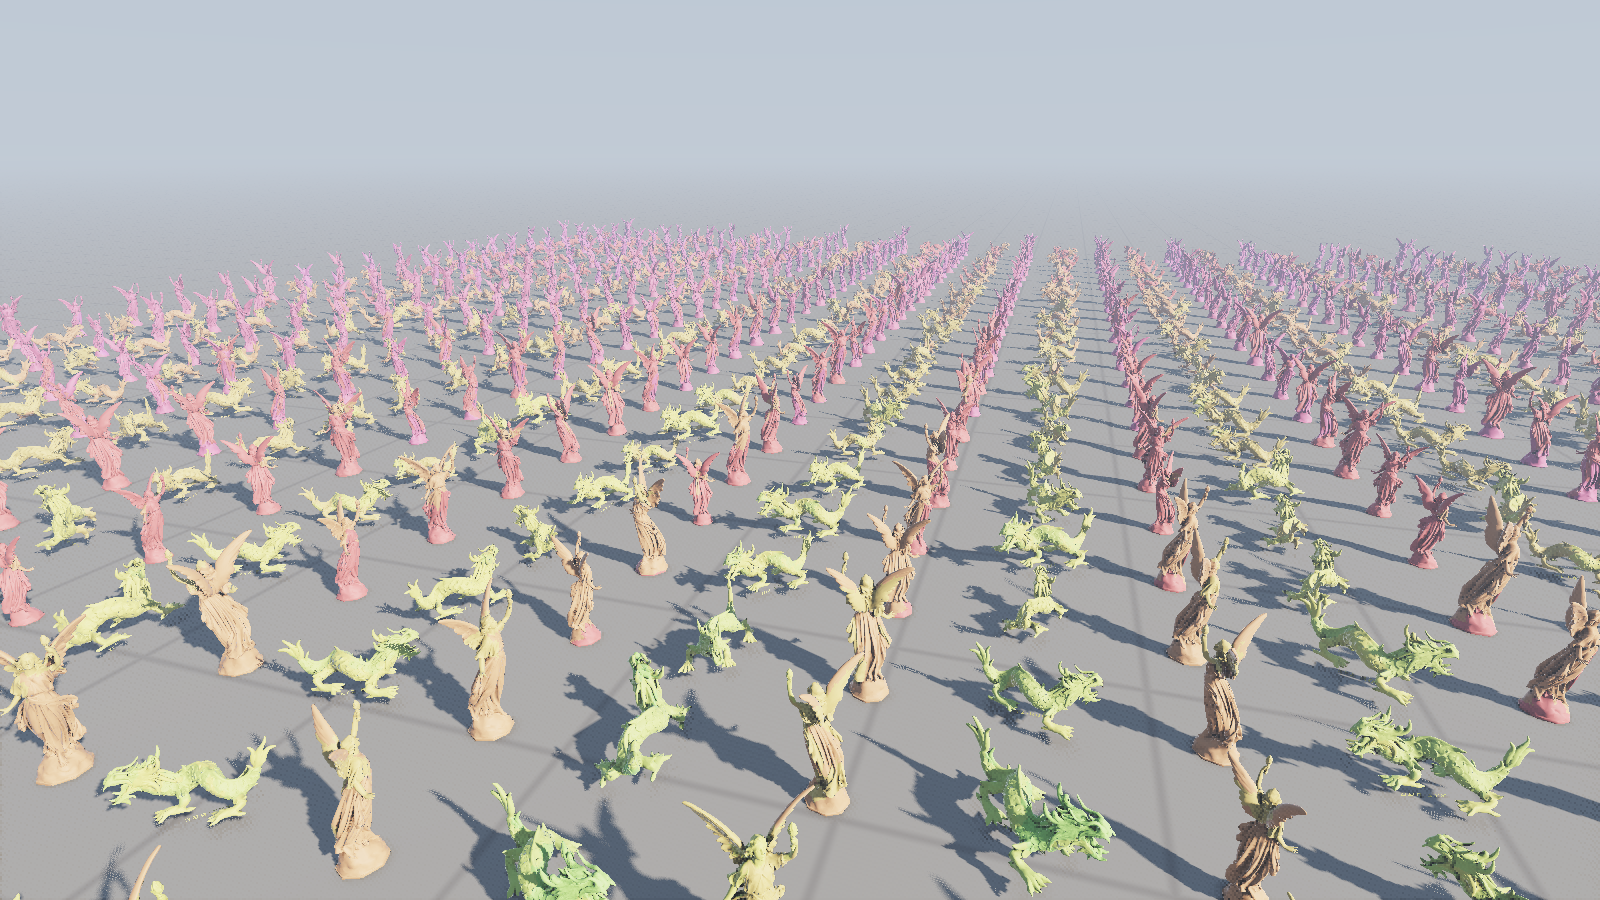
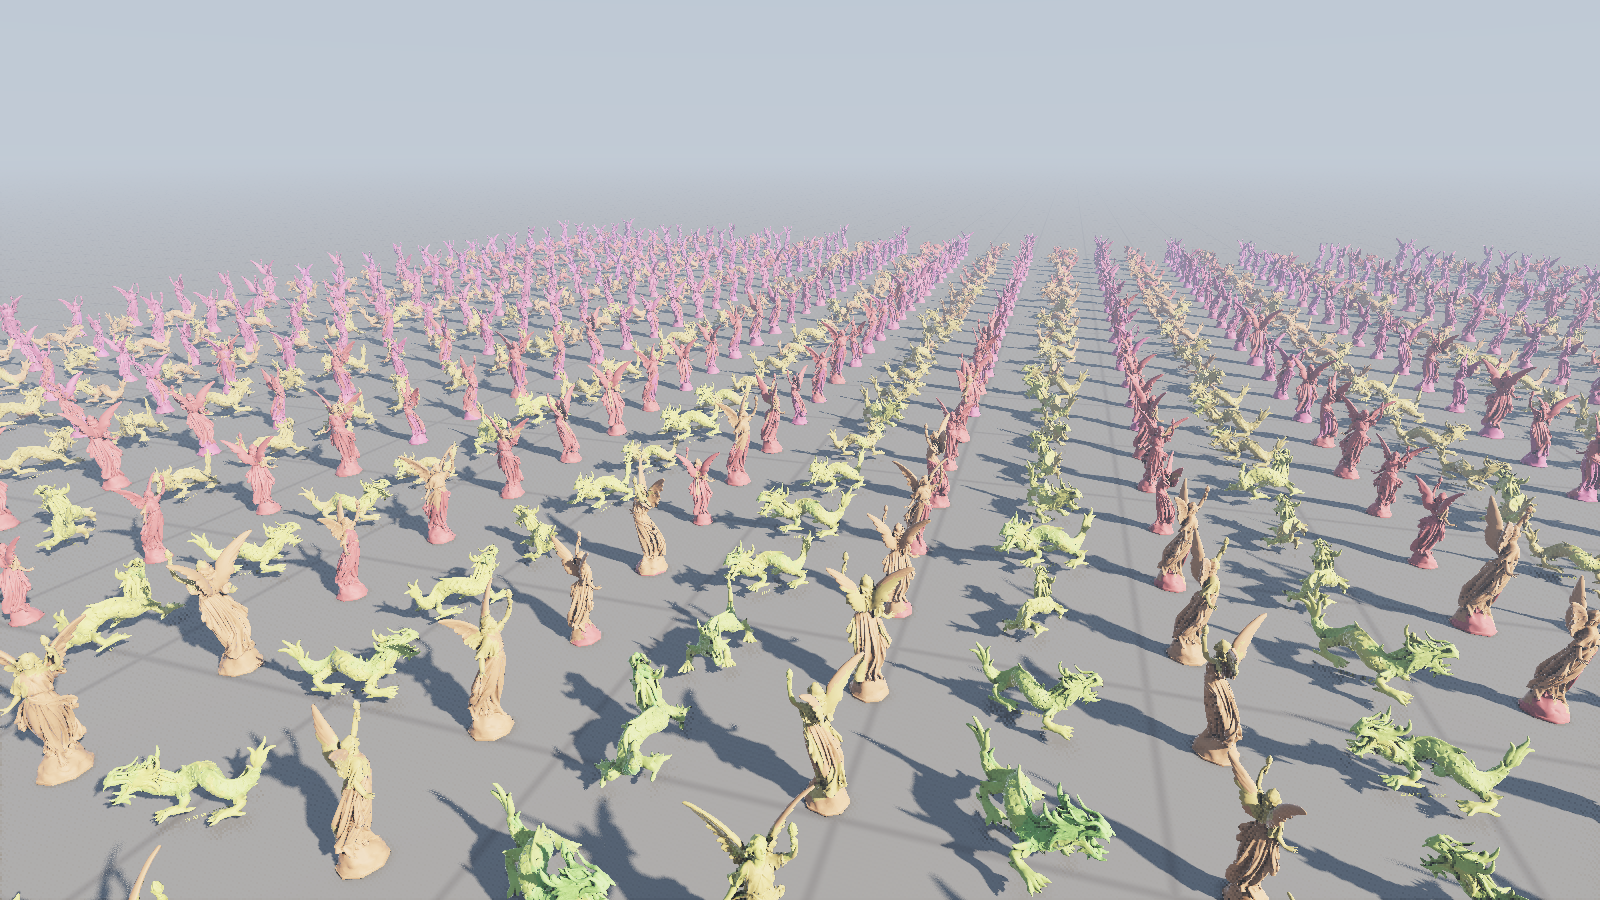
docs: finer shadow levels, faster cold starts, cheaper moving shadows
The readme on everything since the bit-packed pages: 14 shadow levels
from 1/4096 of a unit with grazing levels a step or two finer (the fold
stair-steps limitation is gone), tiered eviction, the sun facing tiled
shadow raster, merged reads, eight loader threads and prefetch from
page errors. Every table and figure is measured again on this build:
the crowd 0.93 ms beside lucy (15 mb read, was 7: finer shadow levels
ask for finer geometry), half of it moving 1.74 ms, a lucy close-up
settling from a cold cache in 48 ms (was 440 with the finer levels and
the old raster), the browser 0.98, 1.35 and 2.55 ms. Images rendered
again.

diff --git a/README.md b/README.md
@@ -17,9 +17,9 @@ threshold and the crowd size there to play with.
 ![900 instances of lucy and the xyz rgb dragon in sunlight, shadowed by virtual shadow maps](docs/crowd.png)
 
 900 instances of lucy (28 million triangles) and the xyz rgb dragon (7.2 million): 15.9
-billion triangles at full detail, drawn at 1920x1080 in 0.92 ms on an rx 9070 xt, soft
+billion triangles at full detail, drawn at 1920x1080 in 0.93 ms on an rx 9070 xt, soft
 shadows, ambient occlusion and antialiasing included. about 3 million triangles reach
-the screen, from 7 mb of the 427 mb on disk. a million instances (17.6 trillion
+the screen, from 15 mb of the 427 mb on disk. a million instances (17.6 trillion
 triangles) take about 1.3 ms, and instances can move.
 
 ## how it works
@@ -86,14 +86,23 @@ triangles) take about 1.3 ms, and instances can move.
    resolution, two slices a pixel rotated each frame for taa to average, reading a small
    depth chain (`ao_depth.comp`) so far taps stay in cache. 0.08 ms; `--no-ao` or g.
 6. **shadows: virtual shadow maps** (`vsm.glsl`, `vsm_*.comp`). the sun's depth lives in
-   a clipmap around the camera: 12 levels of 32x32 pages of 128x128 texels, each level's
-   texels twice the last's, backed by a pool of physical pages. each frame every pixel
-   marks the page it will read, missing pages get physical ones, and only new or invalid
-   pages are drawn, from the same hierarchy seen from the sun with errors in that level's
-   texels. pages keep two layers: still instances, drawn once (or until their geometry
-   has loaded), and moving ones, redrawn where something moved and skipped by lookups
-   where empty. with the camera still they cost 0.06 ms; flying through the crowd draws
-   about 3 pages a frame.
+   a clipmap around the camera: 14 levels of 32x32 pages of 128x128 texels, the finest
+   texel 1/4096 of a unit and each level's twice the last's, backed by a pool of physical
+   pages (48x48 by default, `--vsm-pages`). each frame every pixel marks the page it will
+   read, missing pages get physical ones, and only new or invalid pages are drawn, from
+   the same hierarchy seen from the sun with errors in that level's texels. a surface
+   turned toward grazing light stretches a texel over more of itself, so where a 2x2
+   block of pixels is one smooth surface its normal asks for a level or two finer: that's
+   what keeps shadow edges along lucy's folds from stepping. when the pool runs short,
+   free pages go first, then pages unneeded for eight frames, then recent ones.
+
+   pages keep two layers: still instances, drawn once (or until their geometry has
+   loaded), and moving ones, redrawn where something moved and skipped by lookups where
+   empty. the rasterizer draws only triangles facing the sun, clips each triangle's walk
+   to the pages being drawn, and hands big ones (coarse stand-ins before finer geometry
+   arrives) to the whole workgroup. the atlas is stored page after page in 8x8 texel
+   tiles, so a small triangle's texels share a cache line or two. with the camera still
+   the shadow pages cost 0.08 ms.
 
    shadows soften with distance from what casts them: a blocker search sizes each
    penumbra for a sun drawn 1.5 degrees wide (a little wider than the real one, so it
@@ -113,16 +122,21 @@ triangles) take about 1.3 ms, and instances can move.
    group, loaded into a fixed pool (`--pool-mb`, 1 gb by default) as the gpu asks. a
    cluster that would rather be its finer clusters requests their page, with its error
    on screen as priority; `viewer/streamer.hpp` loads the most wanted, evicting least
-   recently used, on loader threads.
+   recently used, on eight loader threads. pages close together in the file share a
+   read, and the file keeps each level's groups together, so a frame's requests (mostly
+   siblings) merge well.
 
    cuts stay whole because a page is resident only while the pages of its coarser
    stand-ins are: loads go coarsest first and publish in issue order, and a page is
    evicted only when nothing resident or loading depends on it. whatever has loaded,
    exactly one cluster draws on every path.
 
-   each level roughly halves the error, so the streamer prefetches the pages below a
-   request while they'd still be too coarse. from a cold start a lucy close-up settles in
-   17 frames instead of 45, the crowd above in 32 instead of 45.
+   the streamer also prefetches the pages below a request while they'd still be too
+   coarse: each page knows its clusters' error, and a request's priority over its page's
+   error gives the screen scale for predicting its children's. from a cold file cache a
+   lucy close-up settles in 14 frames (48 ms), the crowd above in 19 (55 ms); with one read
+   per page, two loader threads, halving-guess prefetch and the shadow raster walking
+   whole triangles, they took 440 and 210 ms.
 
    pages are bit-packed per cluster. positions snap to a grid over the model and store
    their offset from the cluster's corner in just the bits its extent needs per axis,
@@ -131,12 +145,12 @@ triangles) take about 1.3 ms, and instances can move.
    same grid point in each cluster, so quantizing opens no cracks. lucy's pages went
    from 460 mb to 337, the dragon's from 119 to 90.
 
-   the crowd above reads 7 mb and holds under a thousand pages. a 300 frame flight with a
-   16 mb pool evicts 14,065 pages and reads 107 mb (with the old two-word vertices it
-   evicted 26,900 and read 244, the pool holding a quarter fewer pages), and at frames
-   100, 200 and 300 shows exactly the same empty pixels as a 1 gb pool. from a cold file
-   cache the render thread's worst frame in the streamer is 0.48 ms with loader threads,
-   7 ms without (`--sync-loads`).
+   the crowd above reads 15 mb and holds about 2,100 pages (the finer shadow levels ask
+   for finer geometry; before them it was 7 mb). a 300 frame flight with a 16 mb pool
+   evicts 29,457 pages and reads 214 mb in 11,174 reads (31,201 with a read per page),
+   and at frames 100, 200 and 300 shows exactly the same isolated empty pixels as a 1 gb
+   pool. from a cold file cache the render thread's worst frame in the streamer is 1.0 ms
+   with loader threads, 8 ms without (`--sync-loads`).
 
 ### motion and scale
 
@@ -147,19 +161,19 @@ last transform, and the shadow maps redraw the pages it crossed.
 
 | instances | moving | shadow maps (soft) | ray traced (hard) |
 |---|---|---|---|
-| 900 | none | 0.97 ms | 0.97 ms |
-| 900 | 1% | 1.18 ms | 1.16 ms |
-| 900 | half | 1.76 ms | 1.25 ms |
-| 90,000 | 1% | 1.22 ms | 1.46 ms |
-| 1,000,000 | none | 1.33 ms | 1.47 ms |
-| 1,000,000 | 1% | 1.65 ms | 1.91 ms |
+| 900 | none | 0.93 ms | 0.93 ms |
+| 900 | 1% | 1.02 ms | 1.11 ms |
+| 900 | half | 1.74 ms | 1.22 ms |
+| 90,000 | 1% | 1.28 ms | 1.42 ms |
+| 1,000,000 | none | 1.28 ms | 1.43 ms |
+| 1,000,000 | 1% | 1.64 ms | 1.80 ms |
 
 the crowd view at 1920x1080, ambient occlusion on in both; runs vary by a few
 hundredths. half the crowd moving is where the shadow maps lose: 450 statues redrawn
 into their pages every frame. a ray traced refit on radv costs by the size of the whole
 structure (2.7k entries 0.25 ms, 270k 0.94 ms), so still instances get a structure of
 their own. at a million, occlusion culling is what makes it work: without it the view
-draws 72 million triangles in 3.84 ms.
+draws 72 million triangles in 2.44 ms.
 
 ![lucy, each cluster in its own colour](docs/clusters.png)
 
@@ -185,7 +199,7 @@ or push constants:
 * the compute rasterizer runs twice: nearest depth by 32-bit atomic max, then the
   triangle wherever its depth won.
 * pages stream over http range requests through a javascript port of the streamer
-  (`web/streamer.js`), same rules.
+  (`web/streamer.js`), same rules, neighbouring pages merged into one request.
 * occlusion runs in the same two passes, the pass number from a uniform bound at an
   offset per dispatch.
 * shadows are the viewer's virtual shadow maps, in a module of their own
@@ -197,8 +211,8 @@ or push constants:
 
 the models are trimmed to 4 million triangles at their finest (`--max-triangles`): about
 4 mb of gzipped metadata each, up front, and about 55 mb of pages, streamed. in chrome on the
-rx 9070 xt at 1600x813, 900 instances take 1.07 ms of gpu time once streaming settles,
-1.45 ms with the middle moving, and a million 2.32 ms. it needs 16 storage buffers per
+rx 9070 xt at 1600x813, 900 instances take 0.98 ms of gpu time once streaming settles,
+1.35 ms with the middle moving, and a million 2.55 ms. it needs 16 storage buffers per
 shader stage, which desktop gpus allow. `web/build.sh` builds the models;
 `node tests/web_screenshot.mjs` renders the page headless.
 
@@ -256,14 +270,14 @@ streaming. shading includes shadows and antialiasing.
 
 | camera | frame | culling | raster | pass 2 | shadow pages | shading | triangles |
 |---|---|---|---|---|---|---|---|
-| beside lucy (top image) | 0.92 ms | 0.17 | 0.18 | 0.10 | 0.06 | 0.42 | 3.00m |
-| raised (lod image) | 1.03 ms | 0.09 | 0.24 | 0.09 | 0.06 | 0.55 | 4.33m |
-| ground level | 0.85 ms | 0.12 | 0.16 | 0.11 | 0.06 | 0.40 | 2.58m |
+| beside lucy (top image) | 0.93 ms | 0.16 | 0.19 | 0.10 | 0.08 | 0.40 | 2.99m |
+| raised (lod image) | 1.05 ms | 0.09 | 0.26 | 0.09 | 0.09 | 0.53 | 4.33m |
+| ground level | 0.87 ms | 0.12 | 0.18 | 0.10 | 0.07 | 0.40 | 2.58m |
 
-hard shadows: 0.81, 0.86 and 0.76 ms; no ambient occlusion: 0.83, 0.93 and 0.78; no
-shadows: 0.69, 0.69 and 0.64; ray traced (hard): 0.92, 1.09 and 0.85; no antialiasing:
-0.85, 0.97 and 0.79. the compute rasterizer saves 0.31 to 0.42 ms. occlusion culling
-removes 46% of the triangles at ground level (0.92 to 0.85 ms) and next to nothing from
+hard shadows: 0.84, 0.90 and 0.79 ms; no ambient occlusion: 0.85, 0.96 and 0.79; no
+shadows: 0.70, 0.72 and 0.65; ray traced (hard): 0.94, 1.11 and 0.86; no antialiasing:
+0.87, 0.99 and 0.80. the compute rasterizer saves 0.29 to 0.40 ms. occlusion culling
+removes 46% of the triangles at ground level (0.95 to 0.87 ms) and next to nothing from
 the raised camera, which sees over the crowd.
 
 early versions drew fewer triangles (0.86 million beside lucy); measured errors now
@@ -273,17 +287,14 @@ refuse levels that strayed several pixels. the commit messages have every step's
 
 * the error is sampled at vertices, edge midpoints and triangle centres, so a narrow
   spike between samples can slip through: a close bound, not a proof.
-* refinement takes 17 to 45 frames from a cold start; prefetch only overlaps the levels.
+* from a cold file cache refinement takes about 50 ms, a request round per few levels.
 * motion is rigid and built in: nothing deforms. many moving instances are costly in the
-  shadow maps (half the crowd: 0.62 ms).
+  shadow maps: half the crowd redraws about 500 pages a frame, 0.86 ms.
 * shadow pages draw from streamed geometry too, so shadows sharpen with everything else,
   and a page that finds the pool full falls back a level.
-* where a fold turns nearly edge-on to the sun, its shadow edge shows texel-sized steps.
-  an offset growing with the slope smooths them but leaks light through thin parts, so
-  for now the steps stay.
 * materials are a few parameters per instance, with no textures.
-* the browser has no instance cells, and its shadow pages wait on http streaming (about
-  40 seconds headless for a still view to settle).
+* the browser has no instance cells, and its shadow pages wait on http streaming (a still
+  view settles within 40 seconds headless, over local http).
 
 ## models
 
